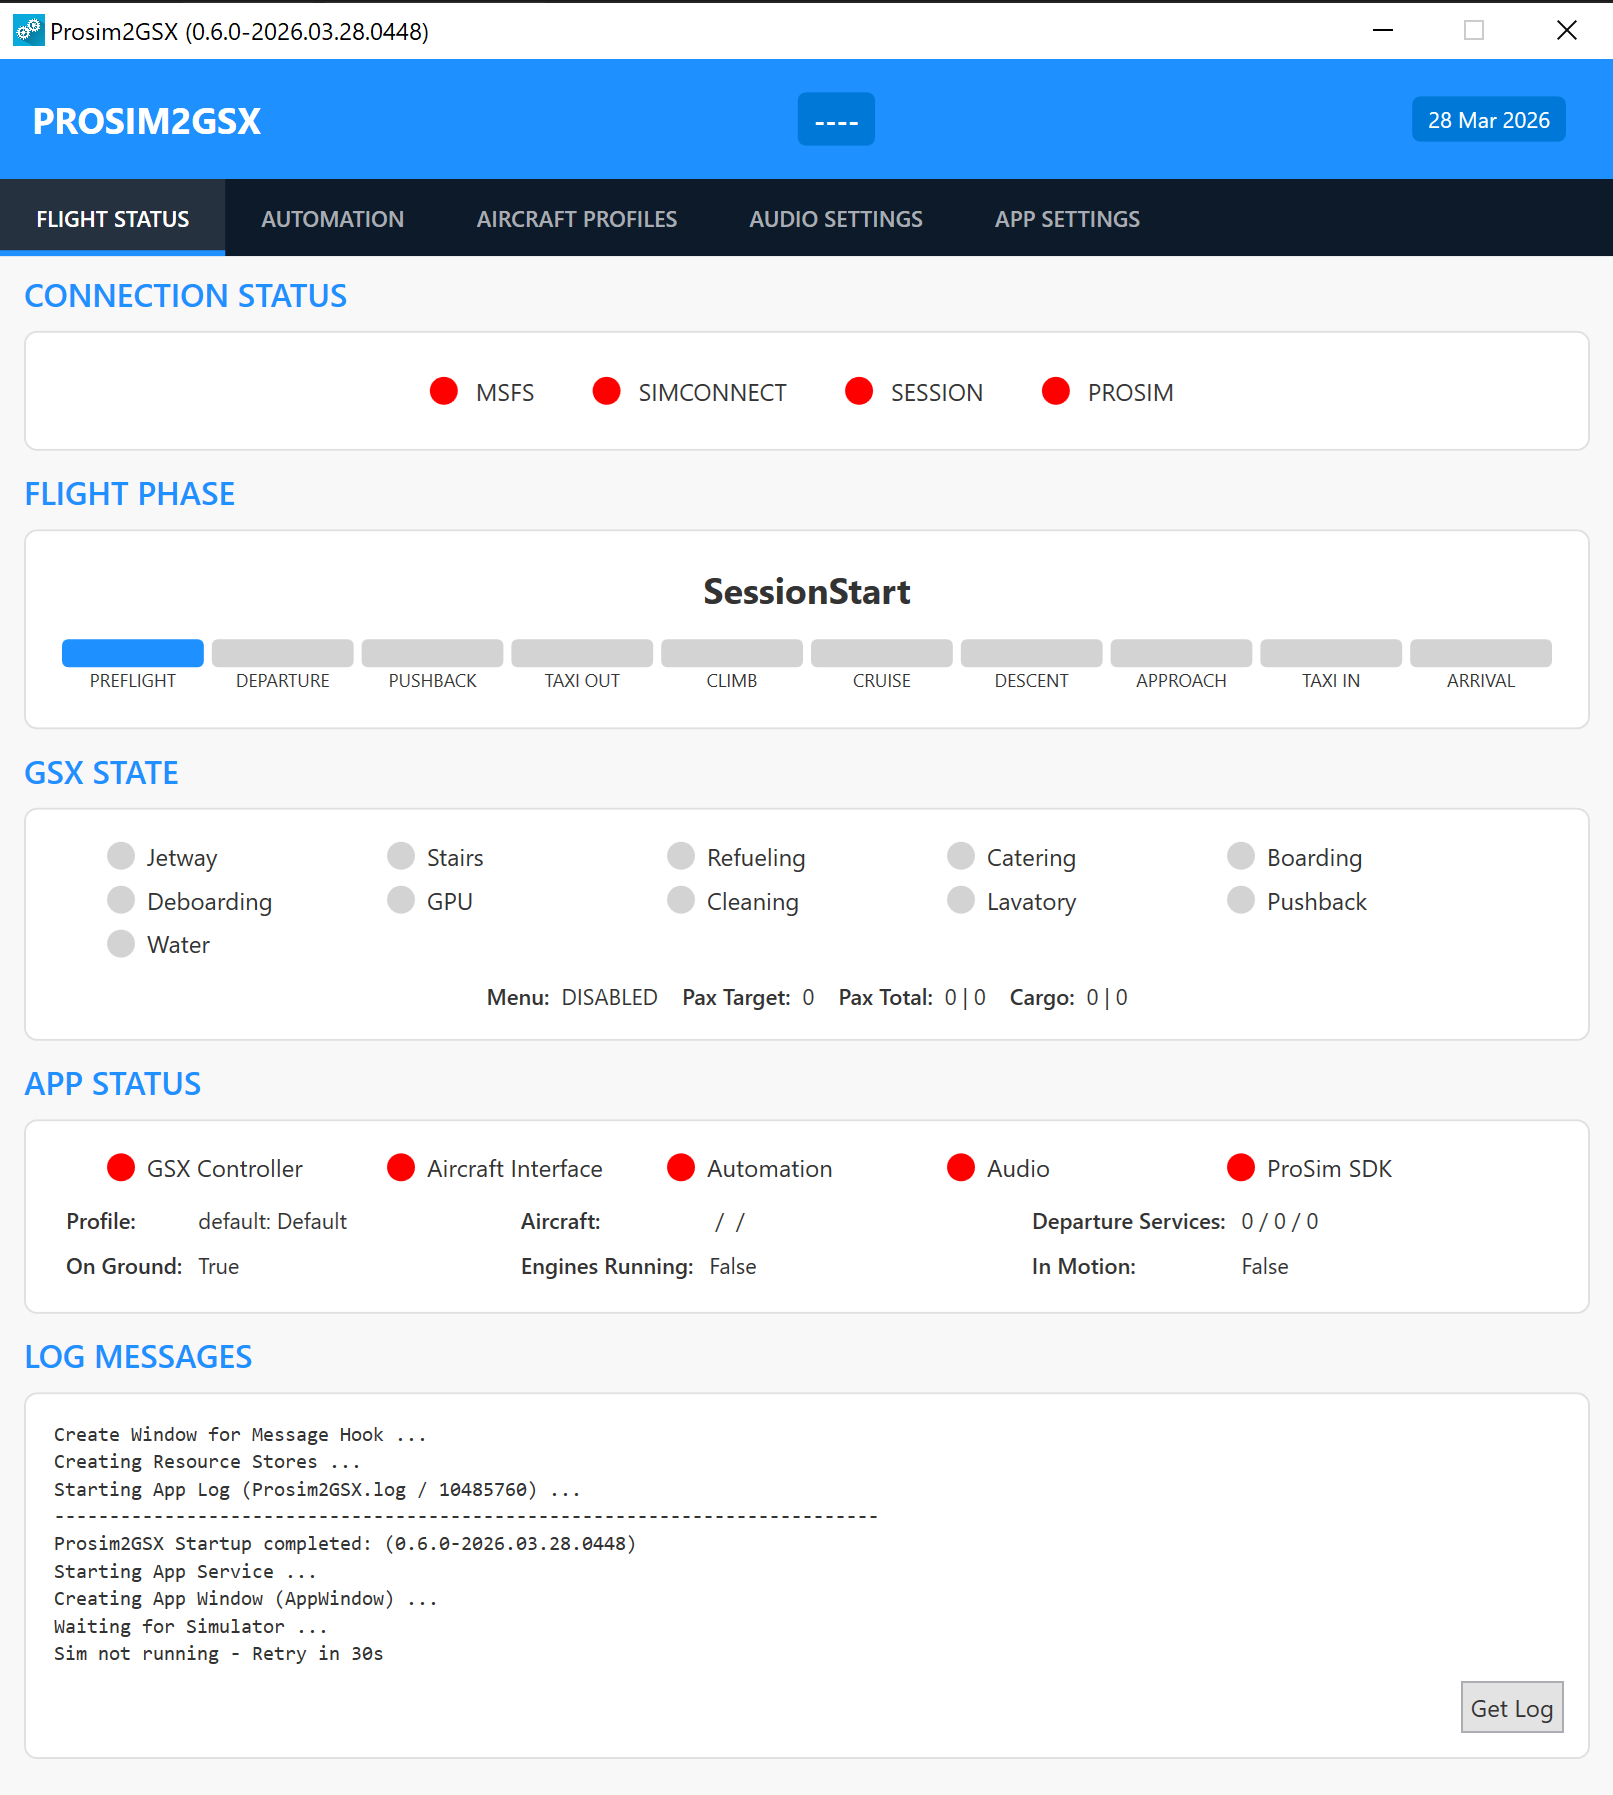
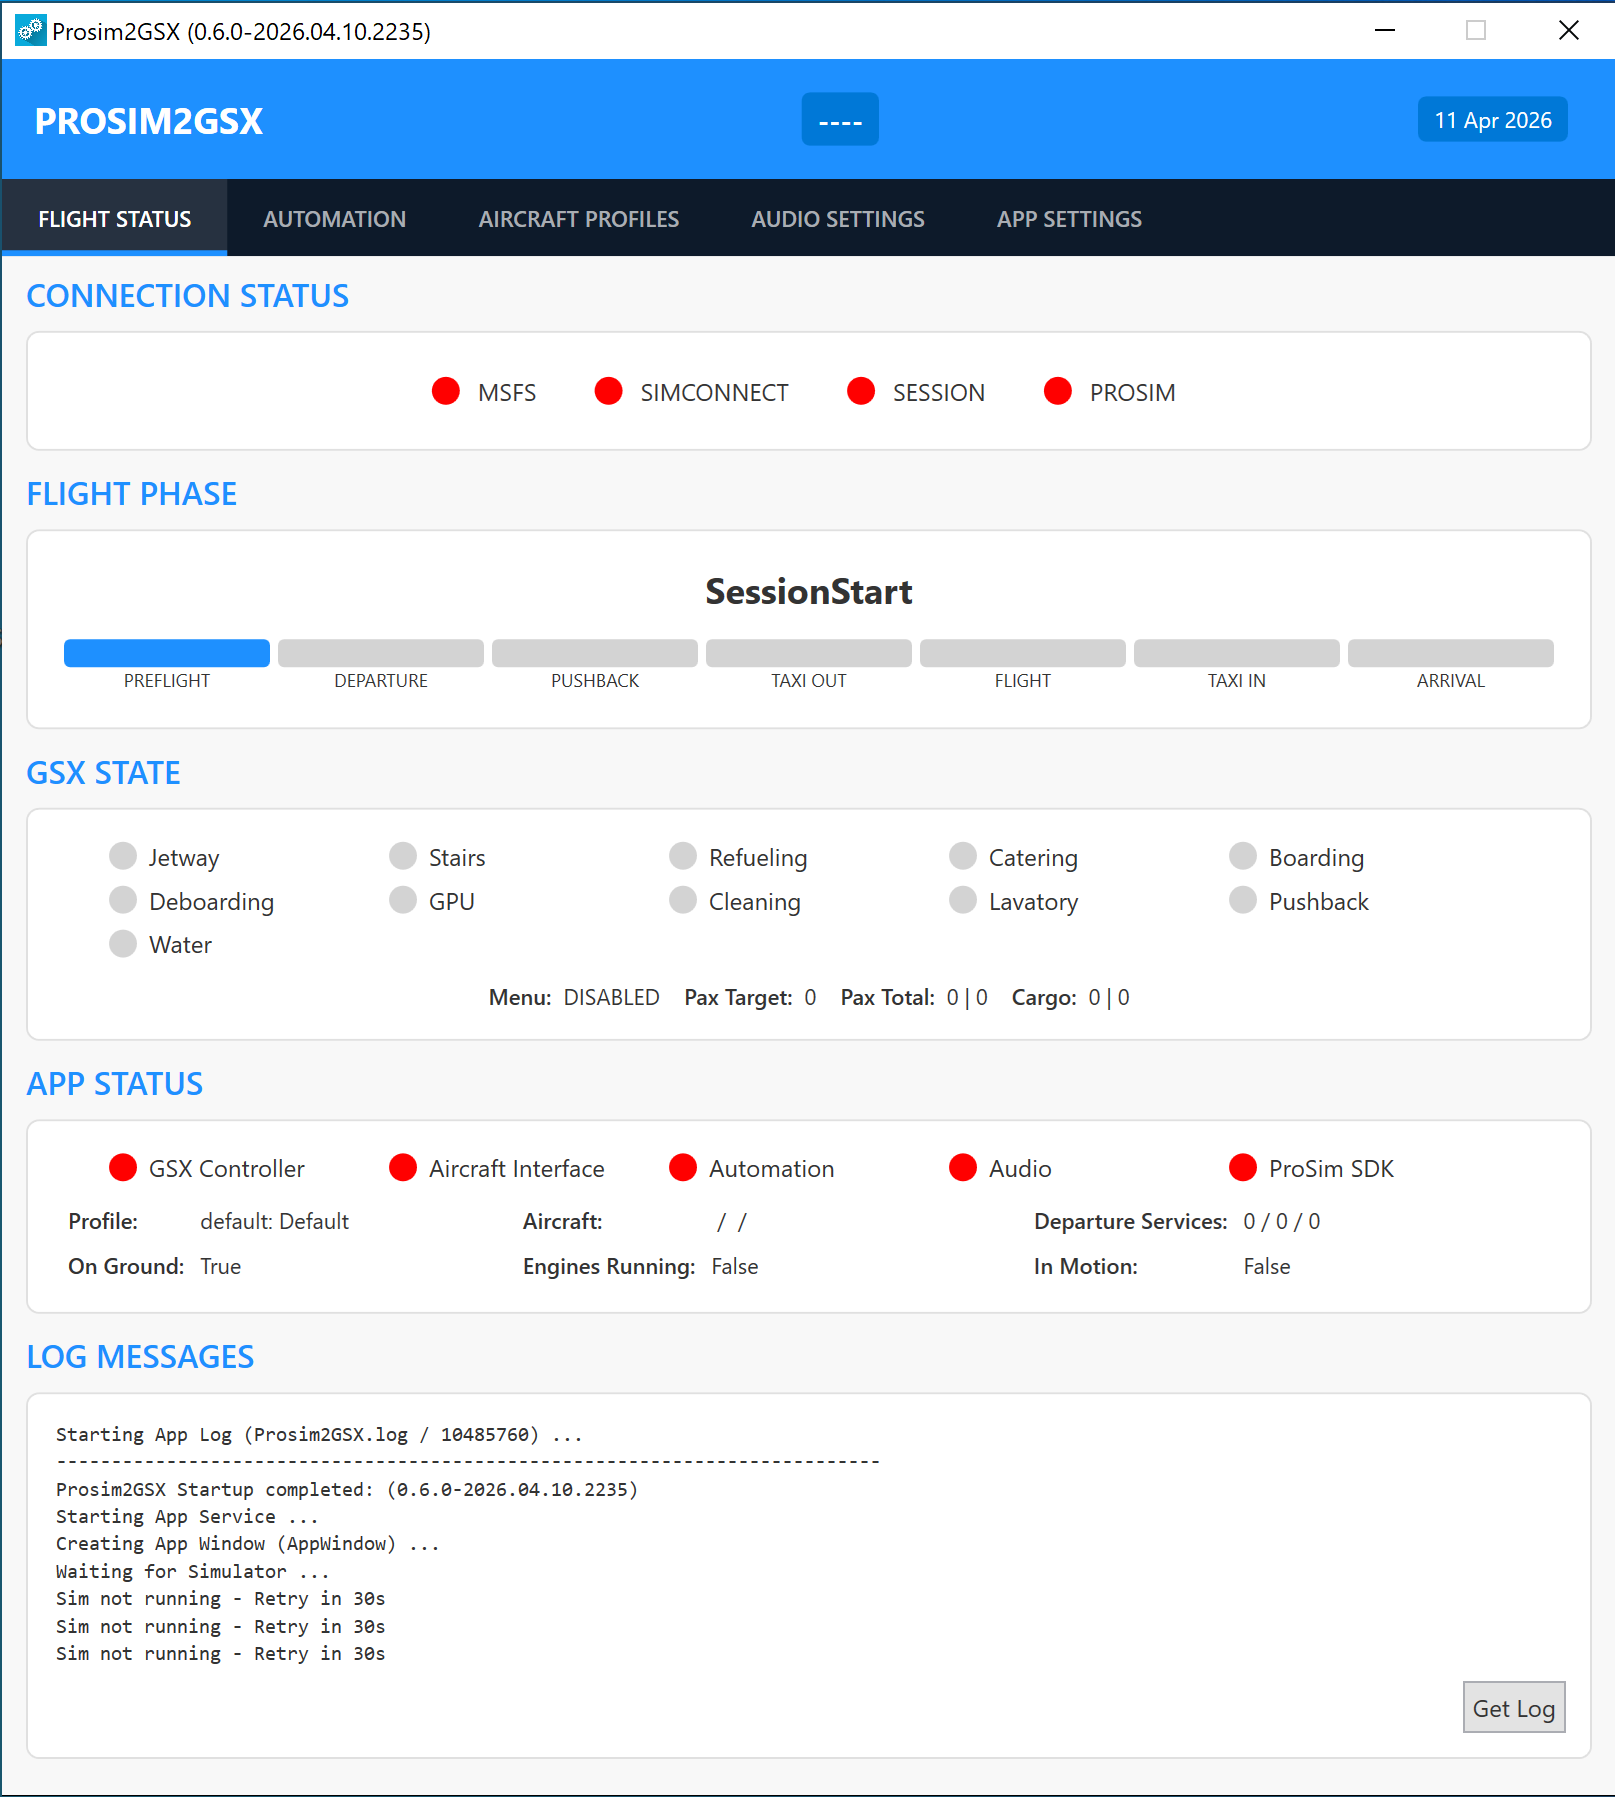
fix: Simplify flight phase progress bar to match actual automation states
Reduced the flight phase indicator from 10 columns to 7 by removing
redundant phases that had no distinct automation state backing them.

Removed:
- CLIMB, CRUISE, DESCENT: all three mapped to the same AutomationState.Flight,
  lighting up and going dark simultaneously with no way to distinguish between them.
- APPROACH: mapped to AutomationState.TaxiIn, duplicating the TAXI IN indicator.

Replaced CLIMB/CRUISE/DESCENT with a single FLIGHT phase, giving each
indicator block a 1:1 mapping to a distinct automation state. The wider
blocks improve readability and reduce visual clutter without losing any
meaningful state information.

Final phases: PREFLIGHT > DEPARTURE > PUSHBACK > TAXI OUT > FLIGHT > TAXI IN > ARRIVAL

diff --git a/Prosim2GSX/UI/Views/Monitor/ViewMonitor.xaml b/Prosim2GSX/UI/Views/Monitor/ViewMonitor.xaml
@@ -56,7 +56,7 @@
                            HorizontalAlignment="Center"/>
 
                     <!-- Phase progress bar -->
-                    <UniformGrid Rows="2" Columns="10" Margin="4,4,4,0">
+                    <UniformGrid Rows="2" Columns="7" Margin="4,4,4,0">
                         <!-- Row 0: Phase indicator blocks -->
                         <!-- PREFLIGHT / SessionStart=0, Preparation=1 -->
                         <Border Height="14" Margin="2,4,2,0" CornerRadius="3">
@@ -113,52 +113,13 @@
                                 </Style>
                             </Border.Style>
                         </Border>
-                        <!-- CLIMB (mapped to Flight) -->
+                        <!-- FLIGHT -->
                         <Border Height="14" Margin="2,4,2,0" CornerRadius="3">
                             <Border.Style>
                                 <Style TargetType="Border">
                                     <Setter Property="Background" Value="#FFD3D3D3"/>
                                     <Style.Triggers>
                                         <DataTrigger Binding="{Binding AppAutomationState}" Value="Flight">
-                                            <Setter Property="Background" Value="#FF1E90FF"/>
-                                        </DataTrigger>
-                                    </Style.Triggers>
-                                </Style>
-                            </Border.Style>
-                        </Border>
-                        <!-- CRUISE (mapped to Flight) -->
-                        <Border Height="14" Margin="2,4,2,0" CornerRadius="3">
-                            <Border.Style>
-                                <Style TargetType="Border">
-                                    <Setter Property="Background" Value="#FFD3D3D3"/>
-                                    <Style.Triggers>
-                                        <DataTrigger Binding="{Binding AppAutomationState}" Value="Flight">
-                                            <Setter Property="Background" Value="#FF1E90FF"/>
-                                        </DataTrigger>
-                                    </Style.Triggers>
-                                </Style>
-                            </Border.Style>
-                        </Border>
-                        <!-- DESCENT (mapped to Flight) -->
-                        <Border Height="14" Margin="2,4,2,0" CornerRadius="3">
-                            <Border.Style>
-                                <Style TargetType="Border">
-                                    <Setter Property="Background" Value="#FFD3D3D3"/>
-                                    <Style.Triggers>
-                                        <DataTrigger Binding="{Binding AppAutomationState}" Value="Flight">
-                                            <Setter Property="Background" Value="#FF1E90FF"/>
-                                        </DataTrigger>
-                                    </Style.Triggers>
-                                </Style>
-                            </Border.Style>
-                        </Border>
-                        <!-- APPROACH (mapped to TaxiIn) -->
-                        <Border Height="14" Margin="2,4,2,0" CornerRadius="3">
-                            <Border.Style>
-                                <Style TargetType="Border">
-                                    <Setter Property="Background" Value="#FFD3D3D3"/>
-                                    <Style.Triggers>
-                                        <DataTrigger Binding="{Binding AppAutomationState}" Value="TaxiIn">
                                             <Setter Property="Background" Value="#FF1E90FF"/>
                                         </DataTrigger>
                                     </Style.Triggers>
@@ -200,10 +161,7 @@
                         <TextBlock Text="DEPARTURE" FontSize="9" HorizontalAlignment="Center" TextWrapping="NoWrap"/>
                         <TextBlock Text="PUSHBACK" FontSize="9" HorizontalAlignment="Center" TextWrapping="NoWrap"/>
                         <TextBlock Text="TAXI OUT" FontSize="9" HorizontalAlignment="Center" TextWrapping="NoWrap"/>
-                        <TextBlock Text="CLIMB" FontSize="9" HorizontalAlignment="Center" TextWrapping="NoWrap"/>
-                        <TextBlock Text="CRUISE" FontSize="9" HorizontalAlignment="Center" TextWrapping="NoWrap"/>
-                        <TextBlock Text="DESCENT" FontSize="9" HorizontalAlignment="Center" TextWrapping="NoWrap"/>
-                        <TextBlock Text="APPROACH" FontSize="9" HorizontalAlignment="Center" TextWrapping="NoWrap"/>
+                        <TextBlock Text="FLIGHT" FontSize="9" HorizontalAlignment="Center" TextWrapping="NoWrap"/>
                         <TextBlock Text="TAXI IN" FontSize="9" HorizontalAlignment="Center" TextWrapping="NoWrap"/>
                         <TextBlock Text="ARRIVAL" FontSize="9" HorizontalAlignment="Center" TextWrapping="NoWrap"/>
                     </UniformGrid>
